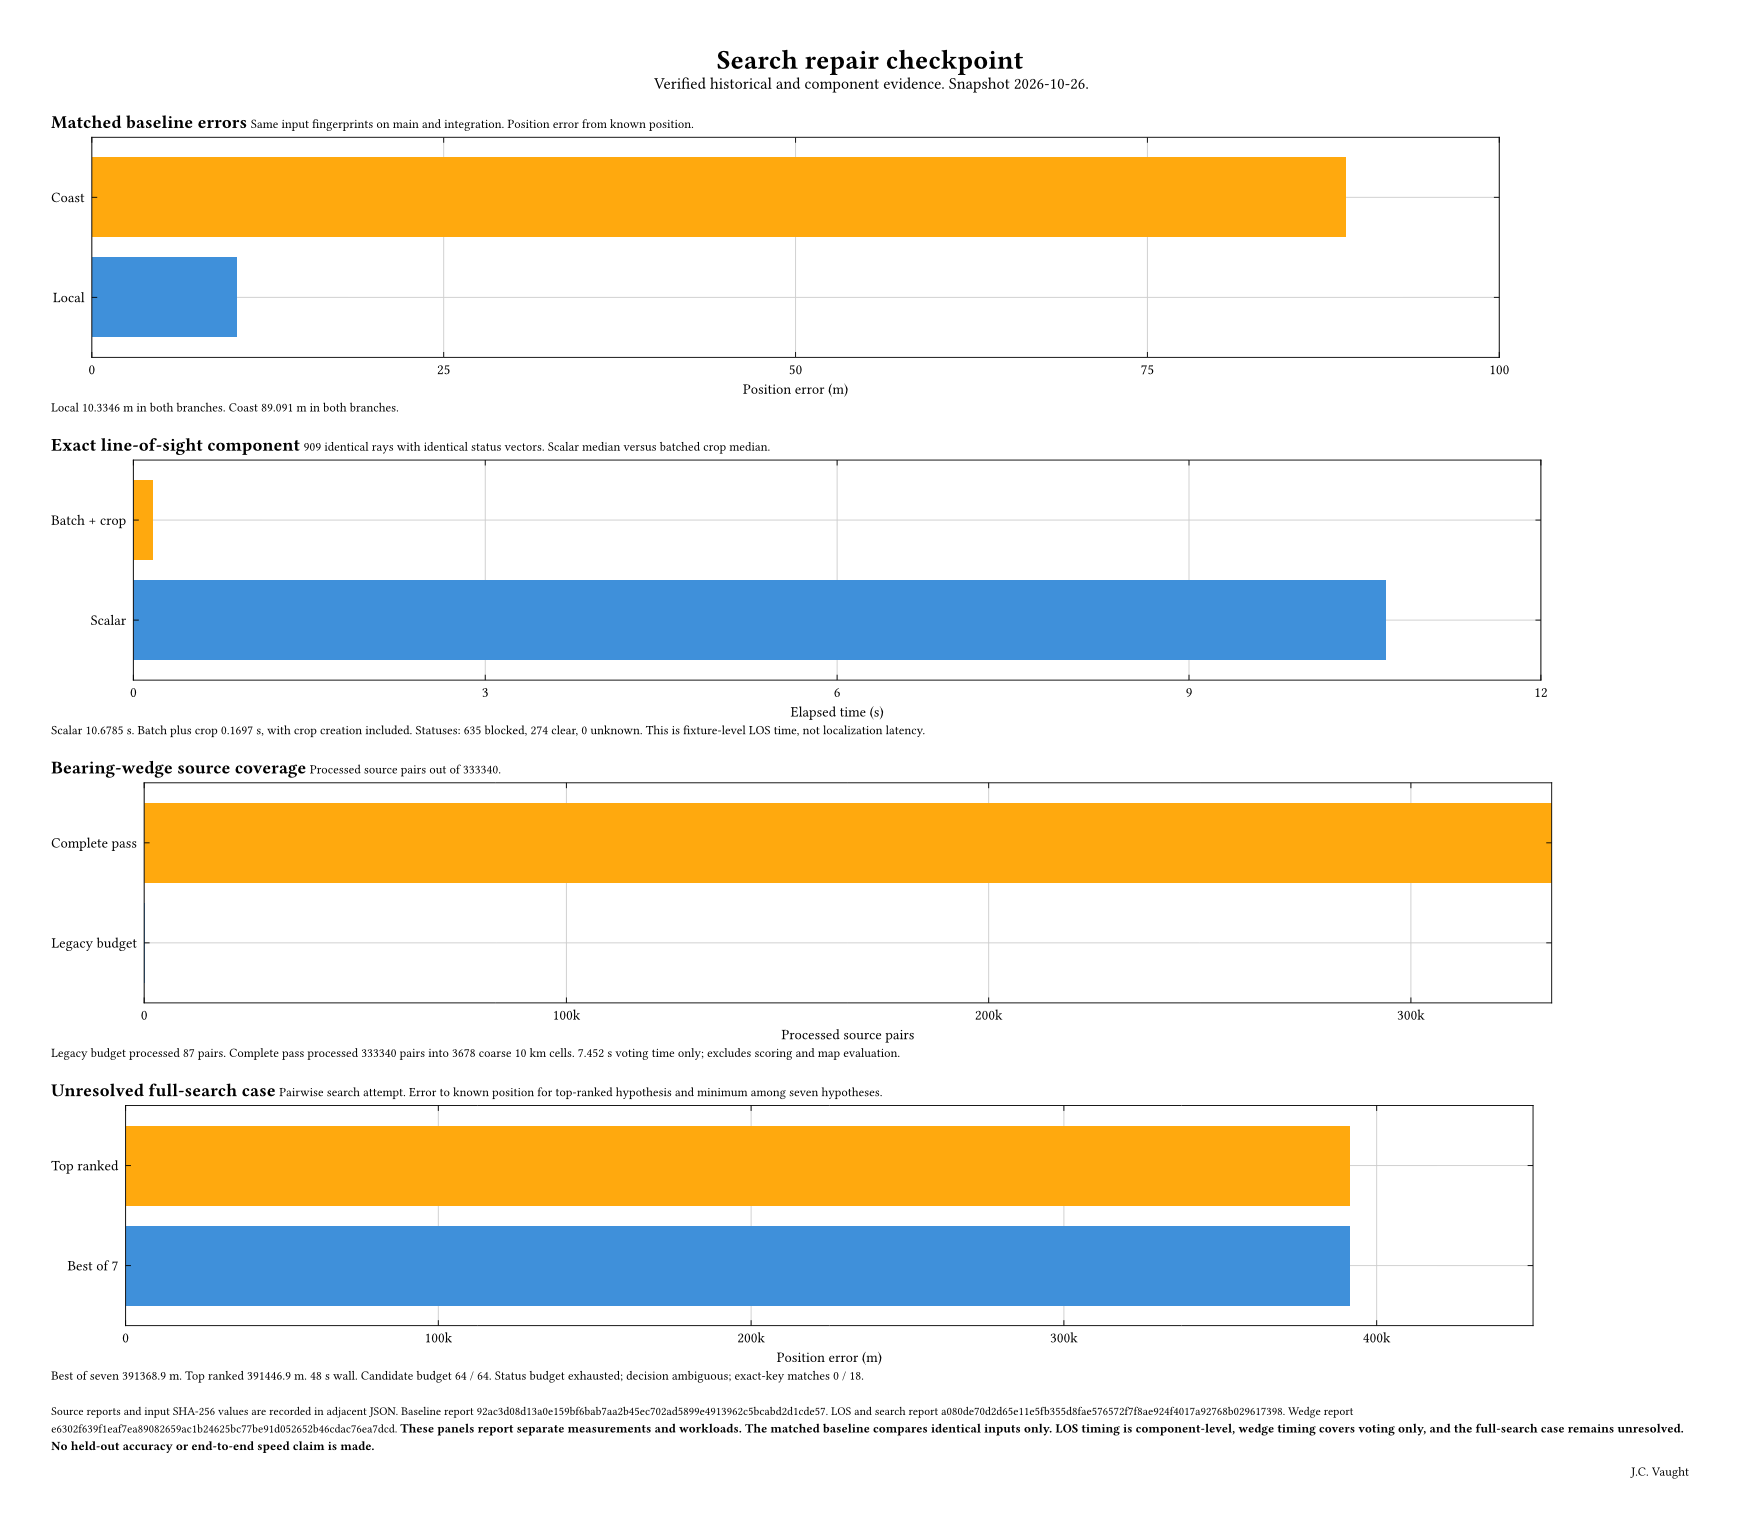
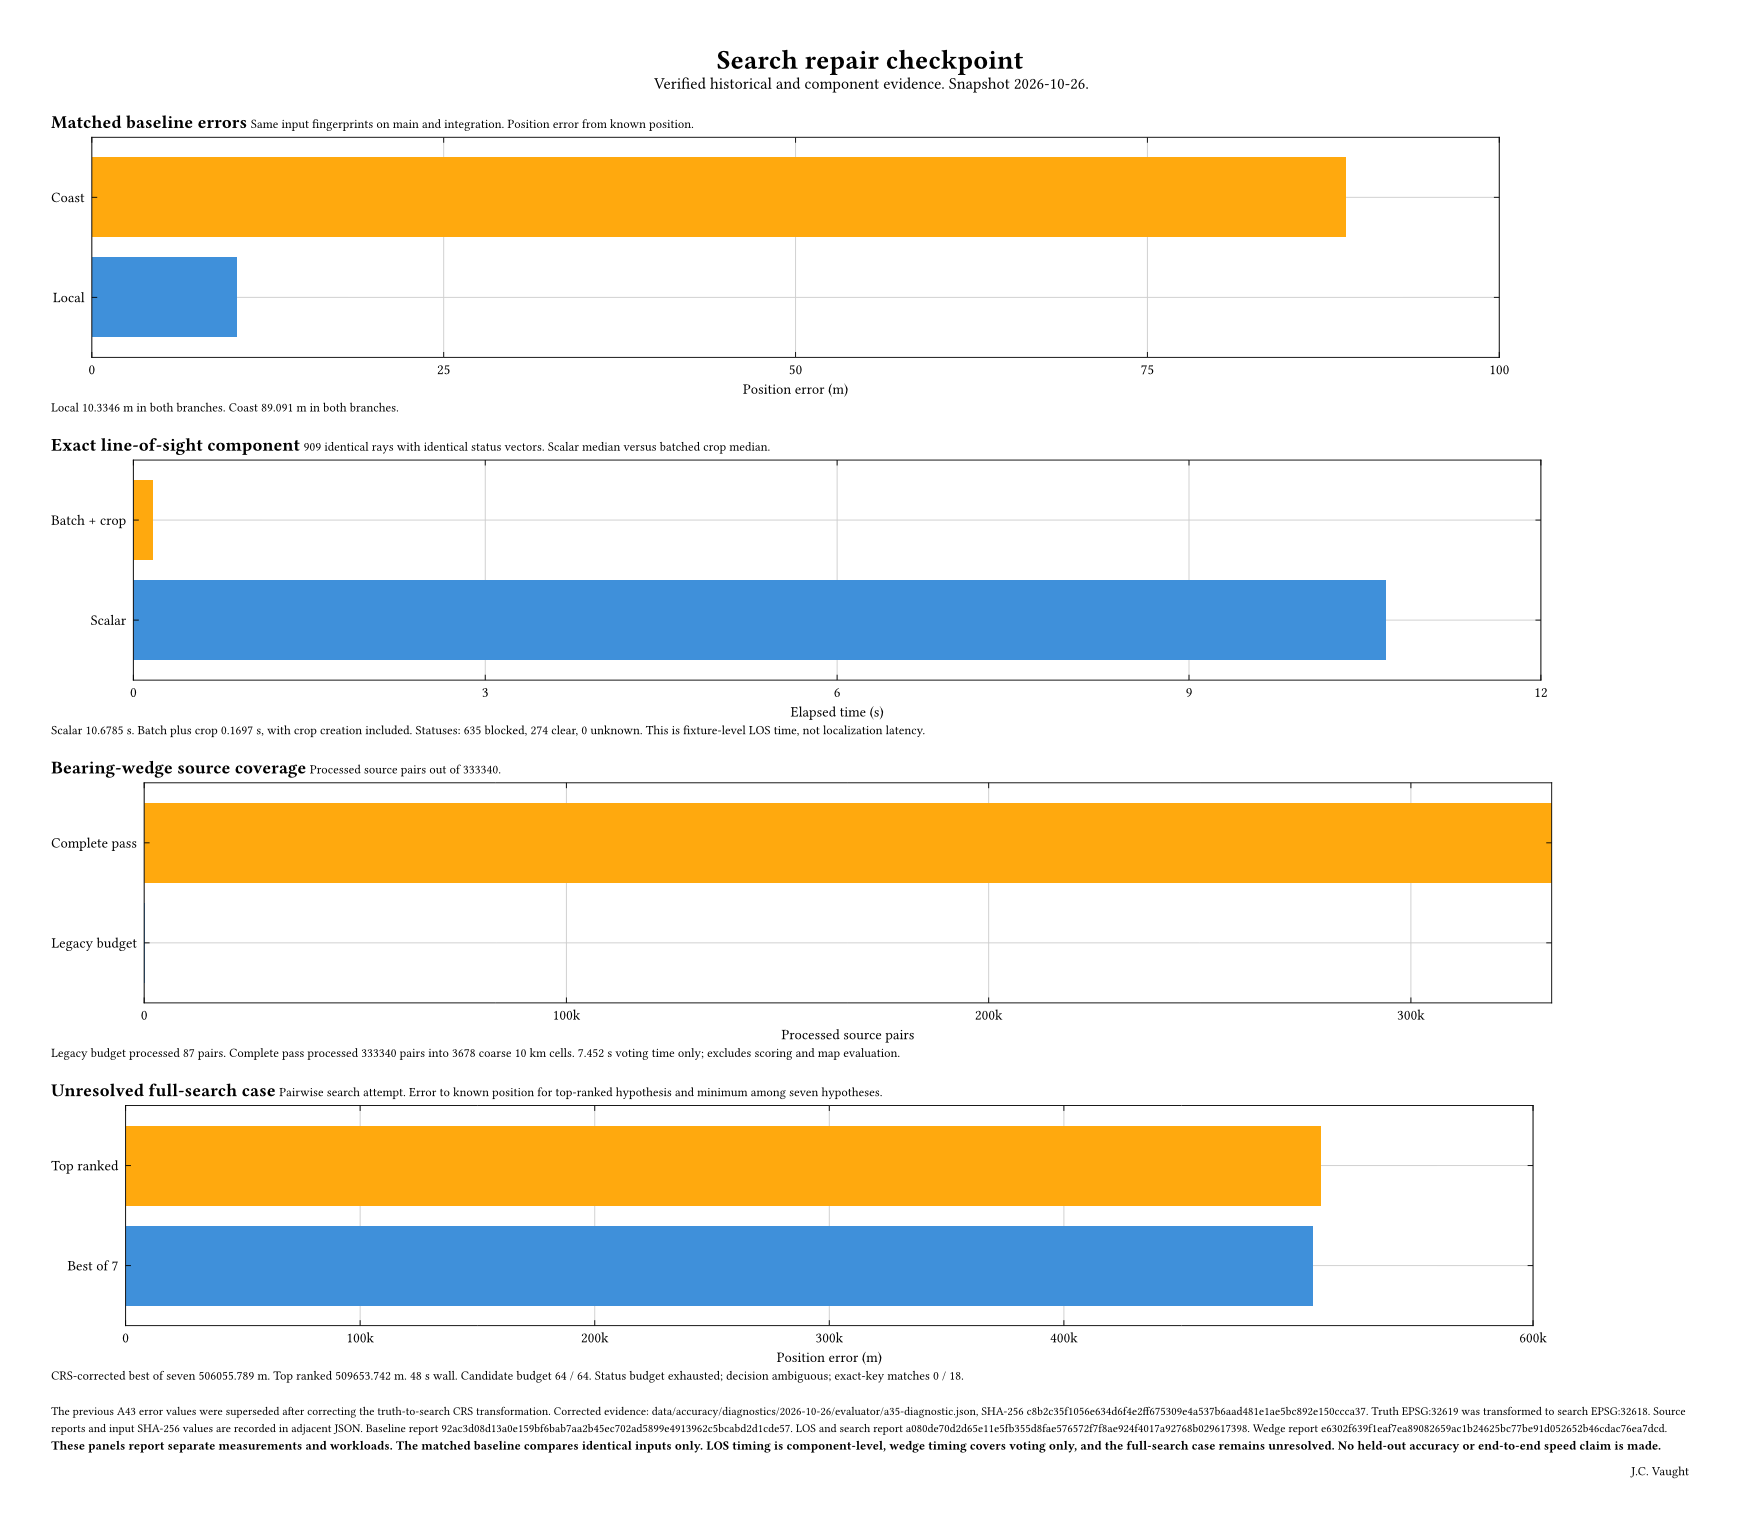
docs: correct search checkpoint CRS errors
Update the unresolved A43 search distances after applying the evaluator truth CRS transform into the search CRS. The corrected top-ranked and best-of-seven errors are 509653.742 m and 506055.789 m, replacing the earlier values that compared EPSG:32619 truth coordinates directly against EPSG:32618 estimates. Cite the frozen A35 evaluator diagnostic and its SHA-256, widen the plotted axis to 600 km, and state that the prior values are superseded while preserving the original A43 diagnostic. Recompile and visually inspect the one-page PDF and PNG; JSON parsing, extracted PDF text, and git diff checks pass. Search outcome remains budget-exhausted and ambiguous; this changes only evaluator distance geometry, not search results.

Changed region(s): [[0.031, 0.8879, 0.9621, 0.9492], [0.7448, 0.7349, 0.7759, 0.8573]]

diff --git a/reports/a39-repair-figure.md b/reports/a39-repair-figure.md
@@ -7,3 +7,9 @@ The source JSON preserves hashes for all three source reports, data inputs, the 
 The 250 m follow-up case is pending and is not represented. This checkpoint is not a release accuracy figure and provides no held-out accuracy or field-validation result.
 
 Typst compiled the source to a one-page PDF and a 130 ppi PNG. The full rendered page was visually inspected after an initial two-column layout clipped chart axes and captions; the final stacked layout keeps all four panels, values, units, and source references inside the page. Extracted PDF text was checked for the expected captions, exact values, and limiting scope language. The PNG is 1740 x 1535 pixels; the PDF page measures 963.78 x 850.39 points.
+
+## Follow-up correction to the A43 search distances
+
+The initial checkpoint displayed A43 distances computed by comparing saved search coordinates in EPSG:32618 against untransformed evaluator truth coordinates in EPSG:32619. A35 verified the same frozen measurement, map, catalog, and estimate, transformed truth into the search CRS, and recomputed the geodesic errors. The corrected top-ranked error is 509,653.742 m, and the minimum among the seven compared hypotheses is 506,055.789 m. The earlier values, 391,446.878 m and 391,368.947 m, are superseded and remain preserved in the original A43 artifacts. The JSON and caption link to data/accuracy/diagnostics/2026-10-26/evaluator/a35-diagnostic.json with SHA-256 c8b2c35f1056e634d6f4e2ff675309e4a537b6aad481e1ae5bc892e150ccca37. The search outcome remains ambiguous and budget-exhausted; only the evaluator distance calculation was corrected.
+
+The corrected source compiled again under a nonblocking exclusive lock on the shared benchmark lock. The regenerated PDF remains one page and the PNG remains 1740 x 1535 pixels. The full image was visually inspected; the revised 0-600,000 m error axis, corrected values, EPSG transformation, and A35 artifact path and hash are visible without clipping. Extracted PDF text confirms the supersession note and corrected values.
